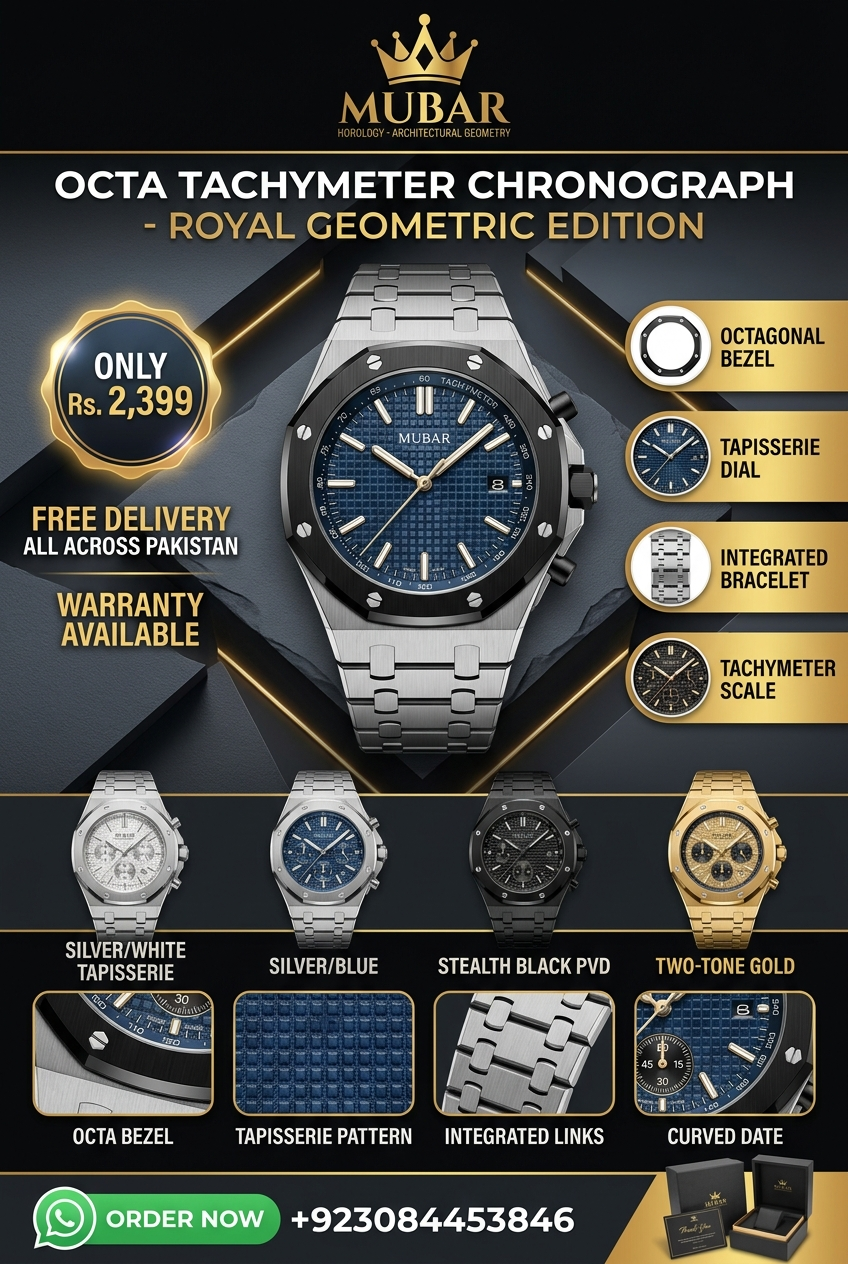
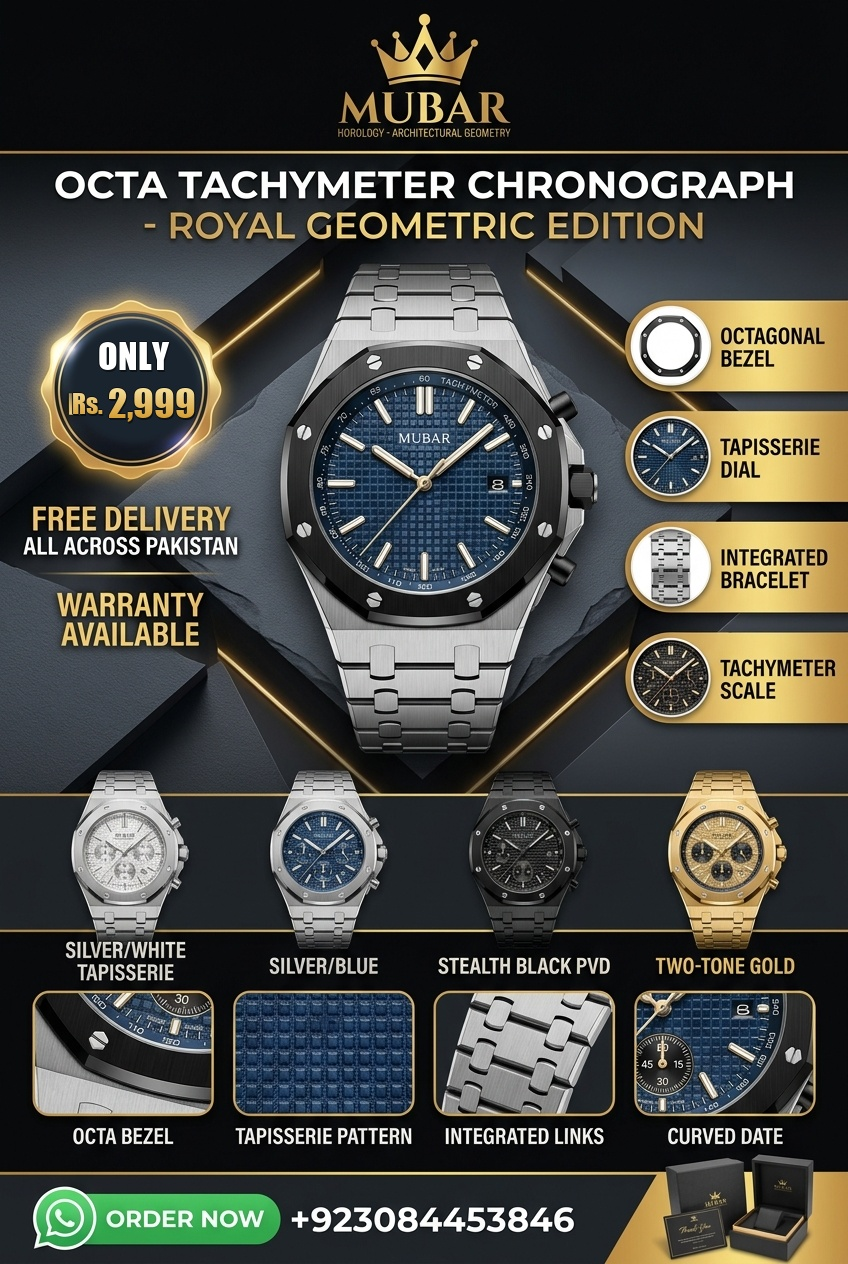
feat(pricing): update Octa Geometric watch price to Rs. 2,999 on website and marketing poster

Changed region(s): [[0.0613, 0.2468, 0.2453, 0.3394]]

diff --git a/src/data/products.js b/src/data/products.js
@@ -295,10 +295,10 @@ export const PRODUCTS = [
     subtitle: "Royal Geometric Bezel & Tapisserie Dial Edition",
     category: "Geometric Sports",
     priceTier: "high-value",
-    originalPrice: 3499,
-    salePrice: 2399,
+    originalPrice: 4499,
+    salePrice: 2999,
     wholesaleCost: 950,
-    profitMargin: 1449,
+    profitMargin: 2049,
     stockCount: 26,
     soldPercent: 94,
     rating: 4.9,
